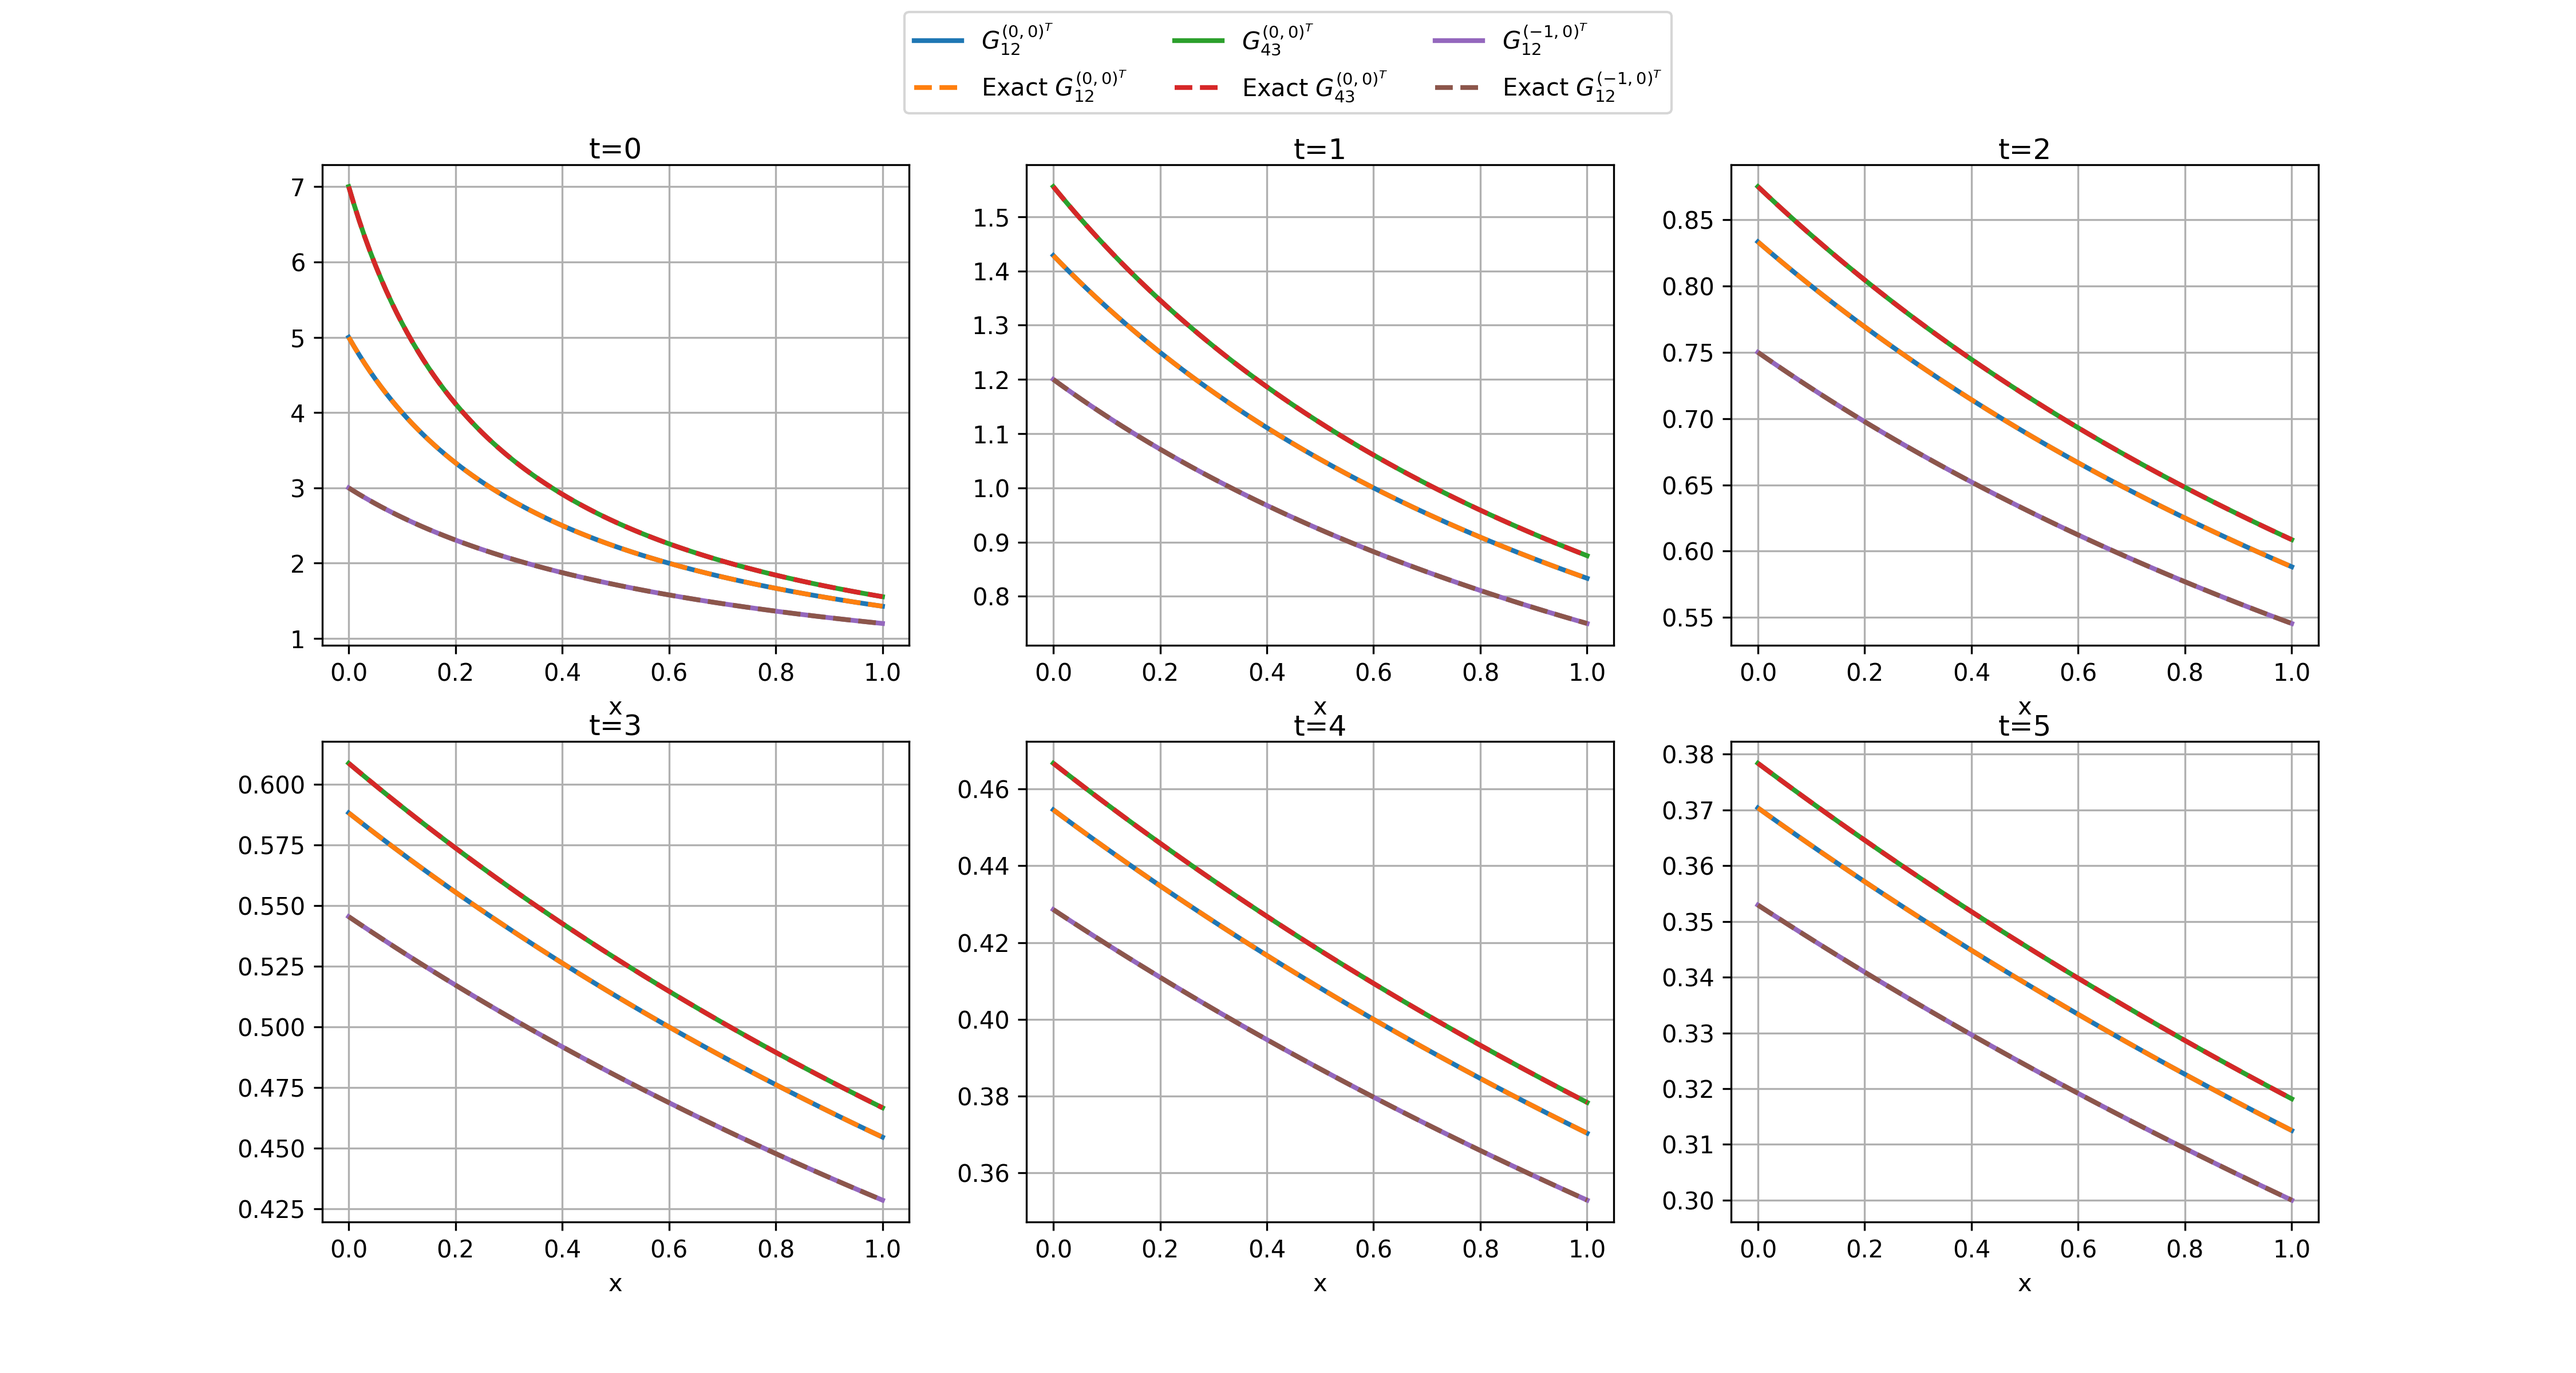
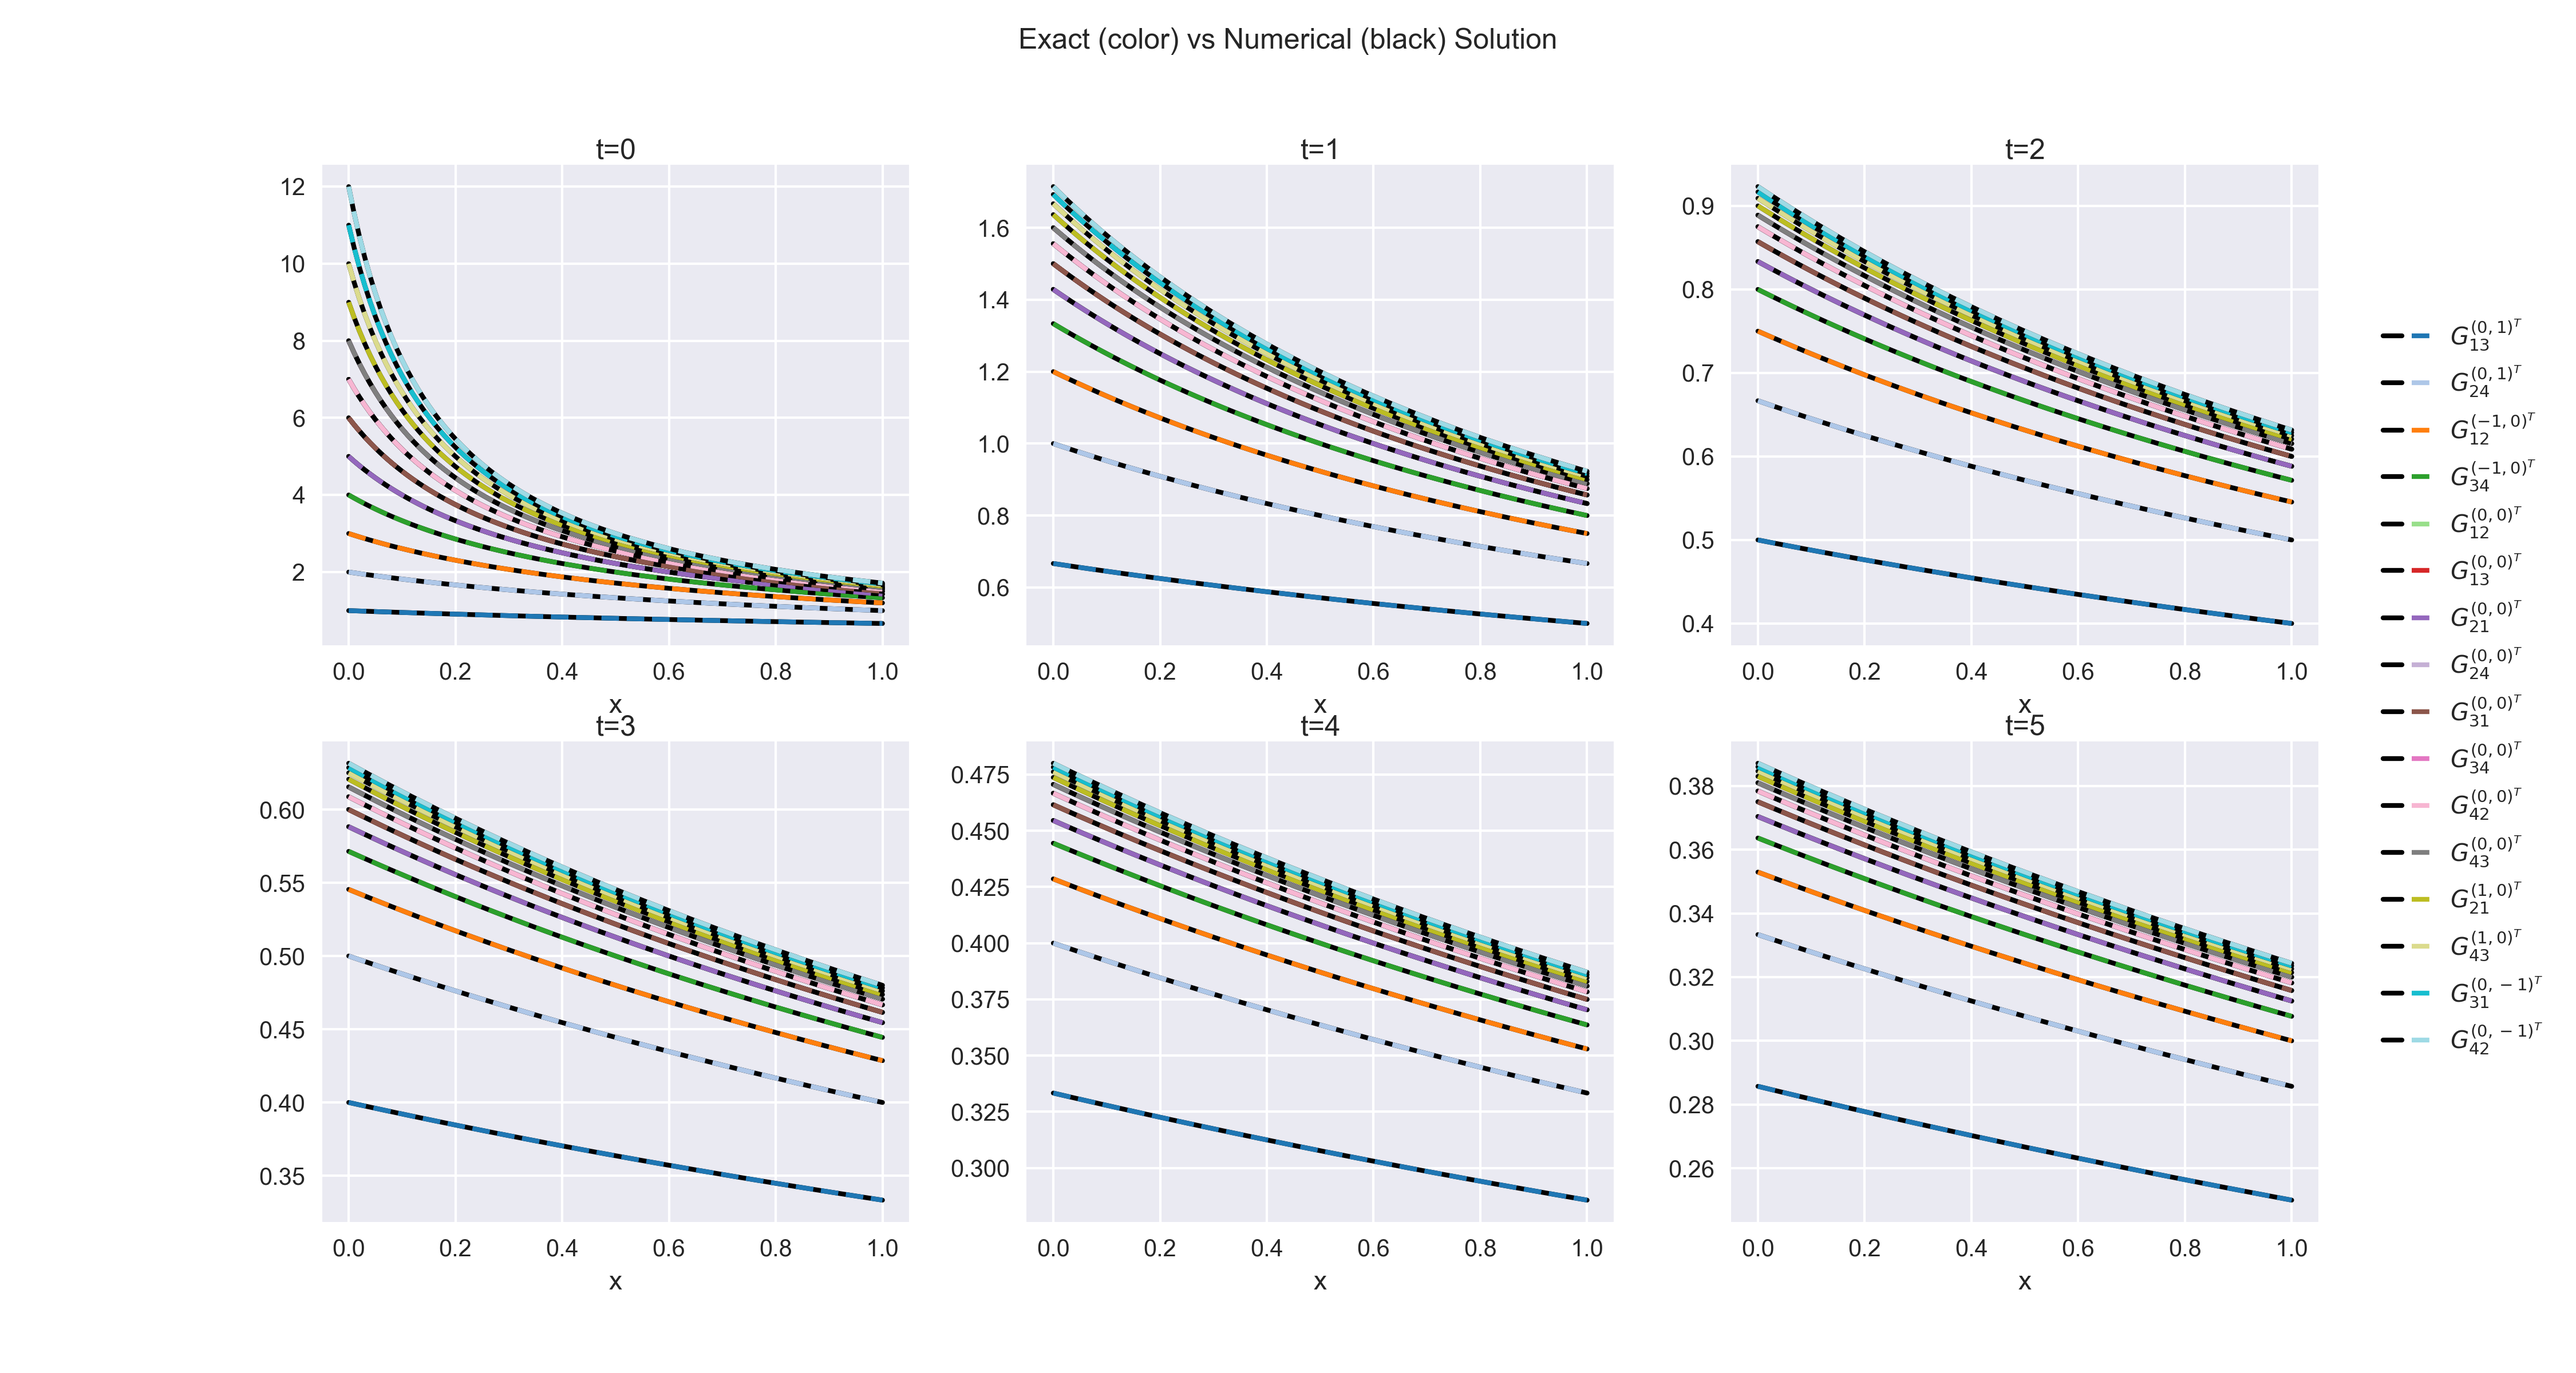
Add figures and spatial dependence problem

diff --git a/tensor_code/examples/space_change/plotting.py b/tensor_code/examples/space_change/plotting.py
@@ -1,0 +1,96 @@
+import numpy as np
+import matplotlib.pyplot as plt
+from matplotlib.lines import Line2D
+from matplotlib.legend_handler import HandlerTuple
+
+# Labels for the non-zero entries
+values_dict = {
+    (1, 0, 2): "$G_{13}^{(0,1)^{T}}$",
+    (1, 1, 3): "$G_{24}^{(0,1)^{T}}$",
+    (3, 0, 1): "$G_{12}^{(-1,0)^{T}}$",
+    (3, 2, 3): "$G_{34}^{(-1,0)^{T}}$",
+    (4, 0, 1): "$G_{12}^{(0,0)^{T}}$",
+    (4, 0, 2): "$G_{13}^{(0,0)^{T}}$",
+    (4, 1, 0): "$G_{21}^{(0,0)^{T}}$",
+    (4, 1, 3): "$G_{24}^{(0,0)^{T}}$",
+    (4, 2, 0): "$G_{31}^{(0,0)^{T}}$",
+    (4, 2, 3): "$G_{34}^{(0,0)^{T}}$",
+    (4, 3, 1): "$G_{42}^{(0,0)^{T}}$",
+    (4, 3, 2): "$G_{43}^{(0,0)^{T}}$",
+    (5, 1, 0): "$G_{21}^{(1,0)^{T}}$",
+    (5, 3, 2): "$G_{43}^{(1,0)^{T}}$",
+    (7, 2, 0): "$G_{31}^{(0,-1)^{T}}$",
+    (7, 3, 1): "$G_{42}^{(0,-1)^{T}}$"
+}
+
+def plot_tensor(ax, x_eval, X, tensor, t, positions, labels):
+    """
+    Plot tensor values for given positions and labels.
+    
+    Parameters:
+    ax (Axes): Matplotlib axes object.
+    x_eval (np.ndarray): Spatial evaluation points.
+    X (np.ndarray): Numerical solution tensor.
+    tensor (np.ndarray): Exact solution tensor.
+    t (int): Time index.
+    positions (list): List of tensor positions to plot.
+    labels (list): List of labels for the plots.
+    """
+    num_positions = len(values_dict)
+    color_map = plt.get_cmap('tab20', num_positions)
+    colors = color_map(np.linspace(0, 1, num_positions))
+    for pos, label,color in zip(positions, labels,colors):
+        r, i, j = pos
+        ax.plot(x_eval, X[t, :, r, i, j], color='k', linewidth=2, label=f"{label}")
+        ax.plot(x_eval, tensor[:, r, i, j], linestyle='--', color = color, linewidth=2, label=f"Exact {label}")
+    ax.set_xlabel('x')
+    ax.set_title(f't={t}', pad=2)
+    ax.grid(True)
+
+def plot_results(t_eval, x_eval, X, initial_func,save = False,fig_name='conductance'):
+    """
+    Plot the results for all time steps.
+    
+    Parameters:
+    t_eval (np.ndarray): Time evaluation points.
+    x_eval (np.ndarray): Spatial evaluation points.
+    X (np.ndarray): Numerical solution tensor.
+    initial_func (function): Function to generate initial conditions.
+    save_fig (bool): Flag to save the figure.
+    fig_name (str): Filename for saving the figure.
+    """
+    plt.style.use('seaborn-v0_8')
+    fig, axes = plt.subplots(nrows=(len(t_eval) + 2) // 3, ncols=3, figsize=(15, 8), dpi=300)
+    axes = axes.flatten()
+
+    num_positions = len(values_dict)
+    color_map = plt.get_cmap('tab20', num_positions)
+    colors = color_map(np.linspace(0, 1, num_positions))
+    
+    for idx, t in enumerate(t_eval.astype(int)):
+        tensor, _ = initial_func(x_eval, t=t)
+        plot_tensor(axes[idx], x_eval, X, tensor, t, list(values_dict.keys()), list(values_dict.values()))
+
+    #handles, labels = axes[0].get_legend_handles_labels()
+    #unique_labels = {label: handle for handle, label in zip(handles, labels)}
+    #fig.legend(unique_labels.values(), unique_labels.keys(), loc='upper center', bbox_to_anchor=(0.5, 1), ncol=12)
+   # Create custom legend handles
+    custom_lines = []
+    for color in colors:
+        custom_lines.append((Line2D([0], [0], color='k', linewidth=2),
+                             Line2D([0], [0], color=color, linestyle='--', linewidth=2)))
+    
+    custom_labels = [f"{label}" for label in values_dict.values()]
+
+    # Creating a combined legend
+    fig.legend(handles=custom_lines, labels=custom_labels, handler_map={tuple: HandlerTuple(ndivide=None)},
+                loc='outside center right', borderaxespad=1, ncol=1)
+    fig.suptitle('Exact (color) vs Numerical (black) Solution')
+
+
+    
+    if save == True:
+        fig.savefig(f'tensor_code/examples/figures/{fig_name}.png')
+    plt.tight_layout()
+    plt.subplots_adjust(hspace=0.75, wspace=0.4)
+    #plt.show()

diff --git a/tensor_code/examples/space_initial.py b/tensor_code/examples/space_initial.py
@@ -27,13 +27,23 @@ def initial(nx=1,t=0):
     }
     # Assign non-zero values to the tensor
     x_axis = np.linspace(0,1,nx)
-    for i, xi in enumerate(x_axis):
-        for pos, val in values_dict.items():
-            tensor[i, pos[0], pos[1], pos[2]] = func(val, xi =xi)
+    positions = np.array(list(values_dict.keys()))
+    values = np.array(list(values_dict.values()))
+    idx_nx = np.arange(nx)[:, None]
+    idx_r = positions[:, 0]
+    idx_i = positions[:, 1]
+    idx_j = positions[:, 2]
+    xi = x_axis[:, None]
+    tensor_values = func(values,xi)
+
+    tensor[idx_nx, idx_r, idx_i, idx_j] = tensor_values
+
+    #for i, xi in enumerate(x_axis):
+       # for pos, val in values_dict.items():
+           # tensor[i, pos[0], pos[1], pos[2]] = func(val, xi =xi)
 
     in_cond = tensor.reshape(-1)
     return tensor, in_cond
-
 
 x = SX.sym('x',(array_length*nx,1))
 z = SX.sym('z',(array_length*nx,1))
@@ -64,27 +74,26 @@ for t in t_eval.astype(int):
     tensor, _ = initial(nx, t=t)
     check_solution(tensor, t, x_indices)
 
+plt.style.use('seaborn-v0_8')
 fig, axes = plt.subplots(nrows=nt//3 + (nt%3>0), ncols=3,figsize = (15,8),dpi=300)
 axes = axes.flatten()
 
 for idx, t in enumerate(t_eval.astype(int)):
     tensor, _ = initial(nx, t=t)
     ax = axes[idx]
-    l1, = ax.plot(x_eval, X[t, :, 4, 0, 1], label="$G_{12}^{(0,0)^{T}}$",linewidth = 2)
-    l2, = ax.plot(x_eval, tensor[:, 4, 0, 1], linestyle="--", label="Exact $G_{12}^{(0,0)^{T}}$",linewidth = 2)
-    #l12, = ax.plot(x_eval, X[t, :, 4, 1, 0], label="$G_{21}^{(0,0)^{T}}$",linewidth = 2)
-    #l22, = ax.plot(x_eval, tensor[:, 4, 1, 0], linestyle="--", label="Exact $G_{21}^{(0,0)^{T}}$",linewidth = 2)
-    l3, = ax.plot(x_eval, X[t, :, 4, 3, 1], label="$G_{43}^{(0,0)^{T}}$",linewidth = 2)
-    l4, = ax.plot(x_eval, tensor[:, 4, 3, 1], linestyle="--", label="Exact $G_{43}^{(0,0)^{T}}$",linewidth = 2)
-    l5, = ax.plot(x_eval, X[t, :, 3, 0, 1], label='$G_{12}^{(-1,0)^{T}}$',linewidth = 2)
-    l6, = ax.plot(x_eval, tensor[:, 3, 0, 1], linestyle='--', label='Exact $G_{12}^{(-1,0)^{T}}$',linewidth = 2)
+    l1a, = ax.plot(x_eval,X[t,:,1,0,2], color = 'k',label = "$G_{13}^{(0,1)^{T}}$",linewidth = 2)
+    l1b, = ax.plot(x_eval,tensor[:,1,0,2], linestyle = '--', label = "Exact $G_{13}^{(0,1)^{T}}$",linewidth = 2)
+    l2a, = ax.plot(x_eval,X[t,:,1,1,3], color = 'k',label = "$G_{24}^{(0,1)^{T}}$",linewidth = 2)
+    l2b, = ax.plot(x_eval,tensor[:,1,1,3], linestyle = '--',label = "Exact $G_{24}^{(0,1)^{T}}$",linewidth = 2)
+    l3a, = ax.plot(x_eval, X[t, :, 3, 0, 1], color = 'k',label='$G_{12}^{(-1,0)^{T}}$',linewidth = 2)
+    l3b, = ax.plot(x_eval, tensor[:, 3, 0, 1], linestyle='--', label='Exact $G_{12}^{(-1,0)^{T}}$',linewidth = 2)
     ax.set_xlabel('x')
     ax.set_title(f't={t}',pad=2)
     ax.grid(True)
 
 # Create a single legend
-fig.legend(handles=[l1, l2, l3, l4, l5, l6], loc='upper center',bbox_to_anchor=(0.5, 1), ncol=3)
-fig.savefig('tensor_code/examples/figures/conductance.png')  
+fig.legend(handles=[l1a,l1b,l2a,l2b, l3a,l3b], loc='upper center',bbox_to_anchor=(0.5, 1), ncol=6)
+fig.savefig('tensor_code/examples/figures/conductance_easy.png')  
 plt.tight_layout(rect=[0, 0.03, 1, 0.85])
 plt.subplots_adjust(hspace=0.75, wspace=0.4) 
 plt.show()

diff --git a/tensor_code/examples/space_change/model.py b/tensor_code/examples/space_change/model.py
@@ -1,0 +1,72 @@
+import  numpy as np
+
+def alg(x,z):
+    """
+    Algebraic equation for the DAE system.
+    
+    Parameters:
+    x (SX): State variable.
+    z (SX): Algebraic variable.
+    
+    Returns:
+    SX: Algebraic equation.
+    """
+    alg_eqn = z-0.5*x
+    return alg_eqn
+
+def ode(x,z):
+    """
+    Ordinary differential equation for the DAE system.
+    
+    Parameters:
+    x (SX): State variable.
+    z (SX): Algebraic variable.
+    
+    Returns:
+    SX: ODE equation.
+    """
+    ode = - x * z
+    return ode
+
+def initial(x_axis,t=0):
+    """
+    Initialize the tensor with given dimensions and time parameter.
+    
+    Parameters:
+    x_axis (np.ndarray): Spatial points.
+    t (float): Time parameter.
+    
+    Returns:
+    tensor (np.ndarray): Initialised tensor.
+    in_cond (np.ndarray): Flattened initial condition tensor.
+    """
+    nx = len(x_axis)
+    tensor = np.zeros((nx,9, 4, 4)) # Shape of the tensor (r,i,j)
+    def func(val,xi=0):
+        c = 2 / val
+        return 2 / (t + xi + c)
+    values_dict = {
+    (1, 0, 2): 1, (1, 1, 3): 2,
+    (3, 0, 1): 3, (3, 2, 3): 4,
+    (4, 0, 1): 5, (4, 0, 2): 6, (4, 1, 0): 5, (4, 1, 3): 7, (4, 2, 0): 6, (4, 2, 3): 8, (4, 3, 1): 7, (4, 3, 2): 8,
+    (5, 1, 0): 9, (5, 3, 2): 10,
+    (7, 2, 0): 11, (7, 3, 1): 12
+    }
+    # Assign non-zero values to the tensor
+    positions = np.array(list(values_dict.keys()))
+    values = np.array(list(values_dict.values()))
+    idx_nx = np.arange(nx)[:, None]
+    idx_r = positions[:, 0]
+    idx_i = positions[:, 1]
+    idx_j = positions[:, 2]
+    xi = x_axis[:, None]
+    tensor_values = func(values,xi)
+
+    tensor[idx_nx, idx_r, idx_i, idx_j] = tensor_values
+
+    #for i, xi in enumerate(x_axis):
+       # for pos, val in values_dict.items():
+           # tensor[i, pos[0], pos[1], pos[2]] = func(val, xi =xi)
+
+    in_cond = tensor.reshape(-1)
+    return tensor, in_cond

diff --git a/tensor_code/examples/space_change/solver.py b/tensor_code/examples/space_change/solver.py
@@ -1,0 +1,51 @@
+import numpy as np
+from casadi import *
+from model import alg, ode, initial
+
+def solver_dae(array_length, x_eval, t_eval):
+    """
+    Set up the CasADi integrator for solving the DAE system.
+    
+    Parameters:
+    array_length (int): Length of the array.
+    x_eval (np.ndarray): Spatial points.
+    t_eval (np.ndarray): Time evaluation points.
+    
+    Returns:
+    Function: CasADi integrator function.
+    """
+    # Number of points
+    nt = len(t_eval)
+    nx = len(x_eval)
+    size_arrays = nx*array_length
+    x = SX.sym('x', (size_arrays, 1))
+    z = SX.sym('z', (size_arrays, 1))
+    
+    opts = {'reltol': 1e-10, 'abstol': 1e-10}
+    dae = {'x': x, 'z': z, 'ode': ode(x, z), 'alg': alg(x, z)}
+    F = integrator('F', 'idas', dae, t_eval[0], t_eval, opts)
+    return F
+
+def run_reshape_N4(F, x0, z0, nt, nx):
+    """
+    Run the integrator to solve the DAE system.
+    
+    Parameters:
+    F (Function): CasADi integrator function.
+    x0 (np.ndarray): Initial conditions for state variables.
+    z0 (np.ndarray): Initial conditions for algebraic variables.
+    nt (int): Number of time points.
+    nx (int): Number of spatial points.
+    
+    Returns:
+    tuple: Arrays of state and algebraic variables.
+    """
+    result = F(x0=x0, z0=z0)
+    x_res = result['xf'].full()
+    z_res = result['zf'].full()
+    
+    X = x_res.transpose().reshape(nt, nx, 9, 4, 4)
+    Z = z_res.transpose().reshape(nt, nx, 9, 4, 4)
+    return X, Z
+
+

diff --git a/tensor_code/examples/space_change/main.py b/tensor_code/examples/space_change/main.py
@@ -1,0 +1,25 @@
+import numpy as np
+from model import initial
+from solver import solver_dae, run_reshape_N4
+from plotting import plot_results
+
+def main():
+    """
+    Main function to run the DAE solver and plot the results.
+    """
+    array_length = 144
+    nx = 101
+    nt = 6
+    t_eval = np.linspace(0, 5, nt)
+    x_eval = np.linspace(0, 1, nx)
+
+    # Setup and run the integrator
+    F = solver_dae(array_length, x_eval, t_eval)
+    _, x0 = initial(x_eval)
+    z0 = 0.0 * x0
+    X, Z = run_reshape_N4(F, x0, z0, nt, nx)
+
+    # Plot the results
+    plot_results(t_eval, x_eval, X, initial, save = True)
+if __name__ == "__main__":
+    main()

diff --git a/tensor_code/scrap.py b/tensor_code/scrap.py
@@ -1,5 +1,6 @@
 import numpy as np
 import time
+from matplotlib import colormaps
 
 def initial_broadcast(nx, t, values_dict):
     x = np.linspace(0, 1, nx)
@@ -63,3 +64,5 @@ def initial_loop(nx, t, values_dict):
 start_time = time.time()
 tensor, initial_condition = initial_loop(nx=nx, t=t, values_dict=values_dict)
 print(f"For loop time: {time.time() - start_time} seconds")
+
+print(list(colormaps))
